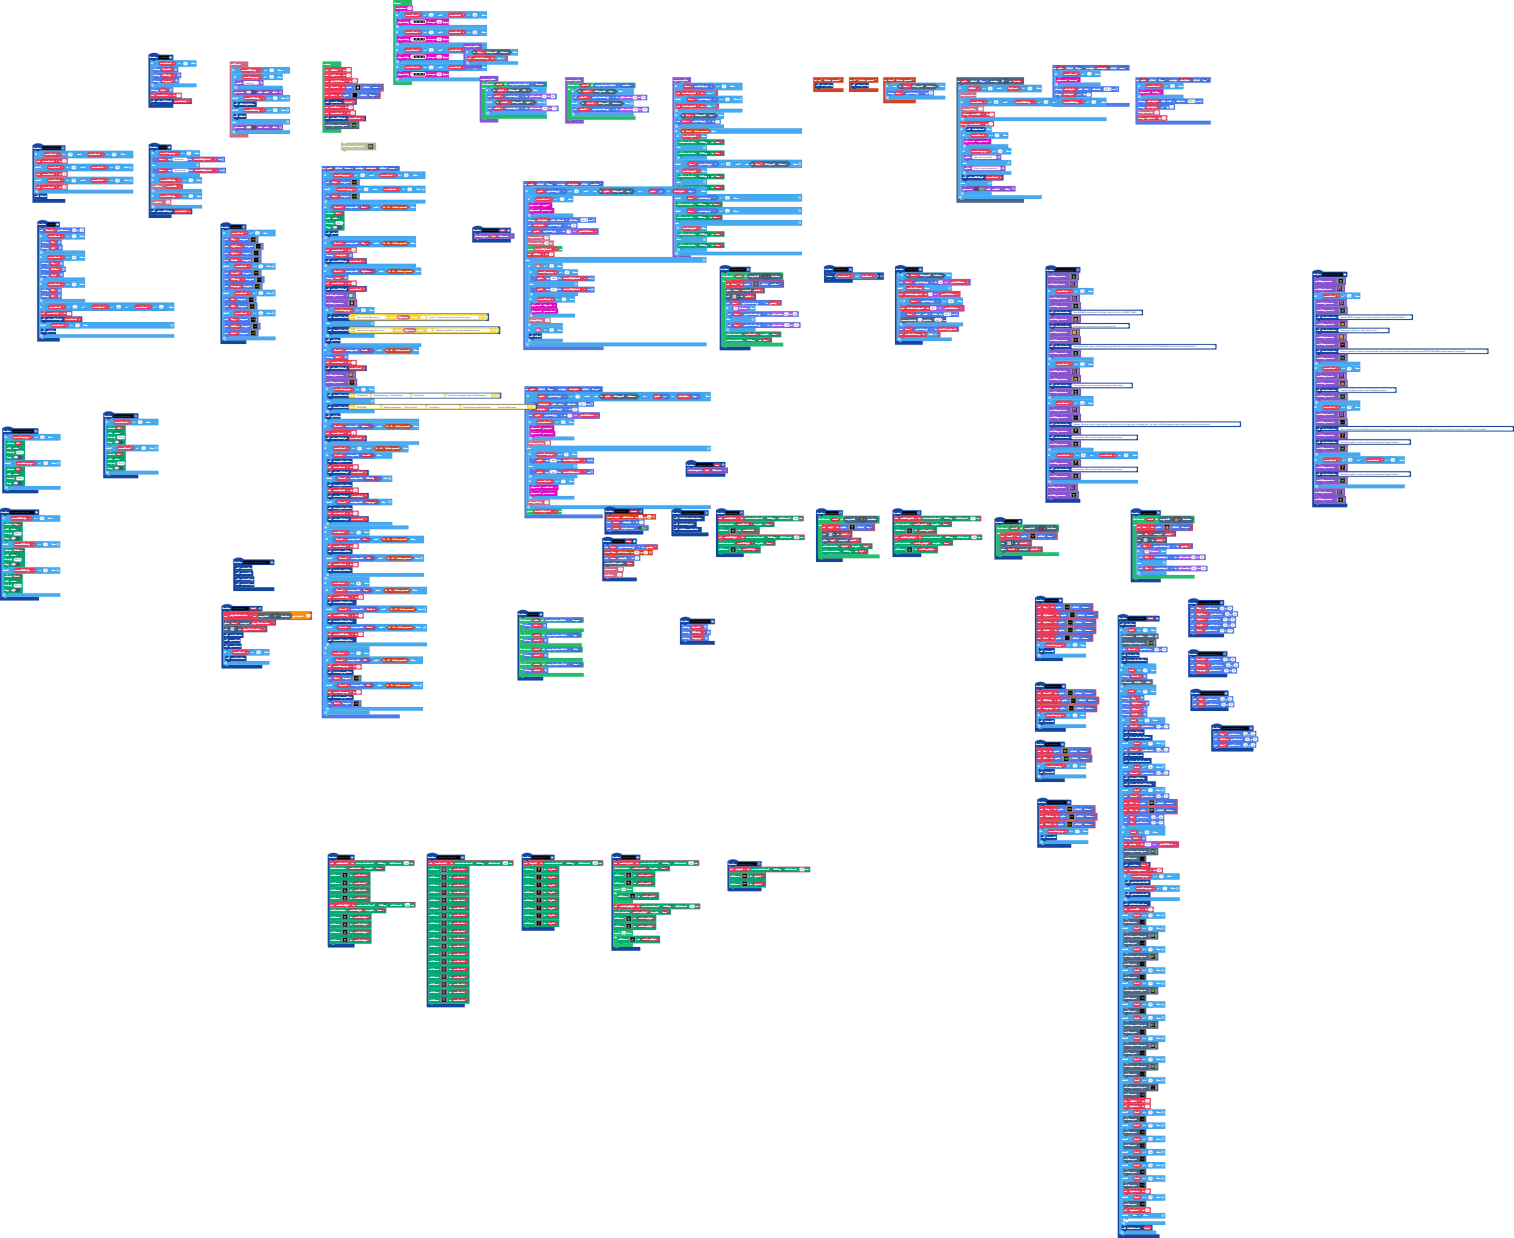
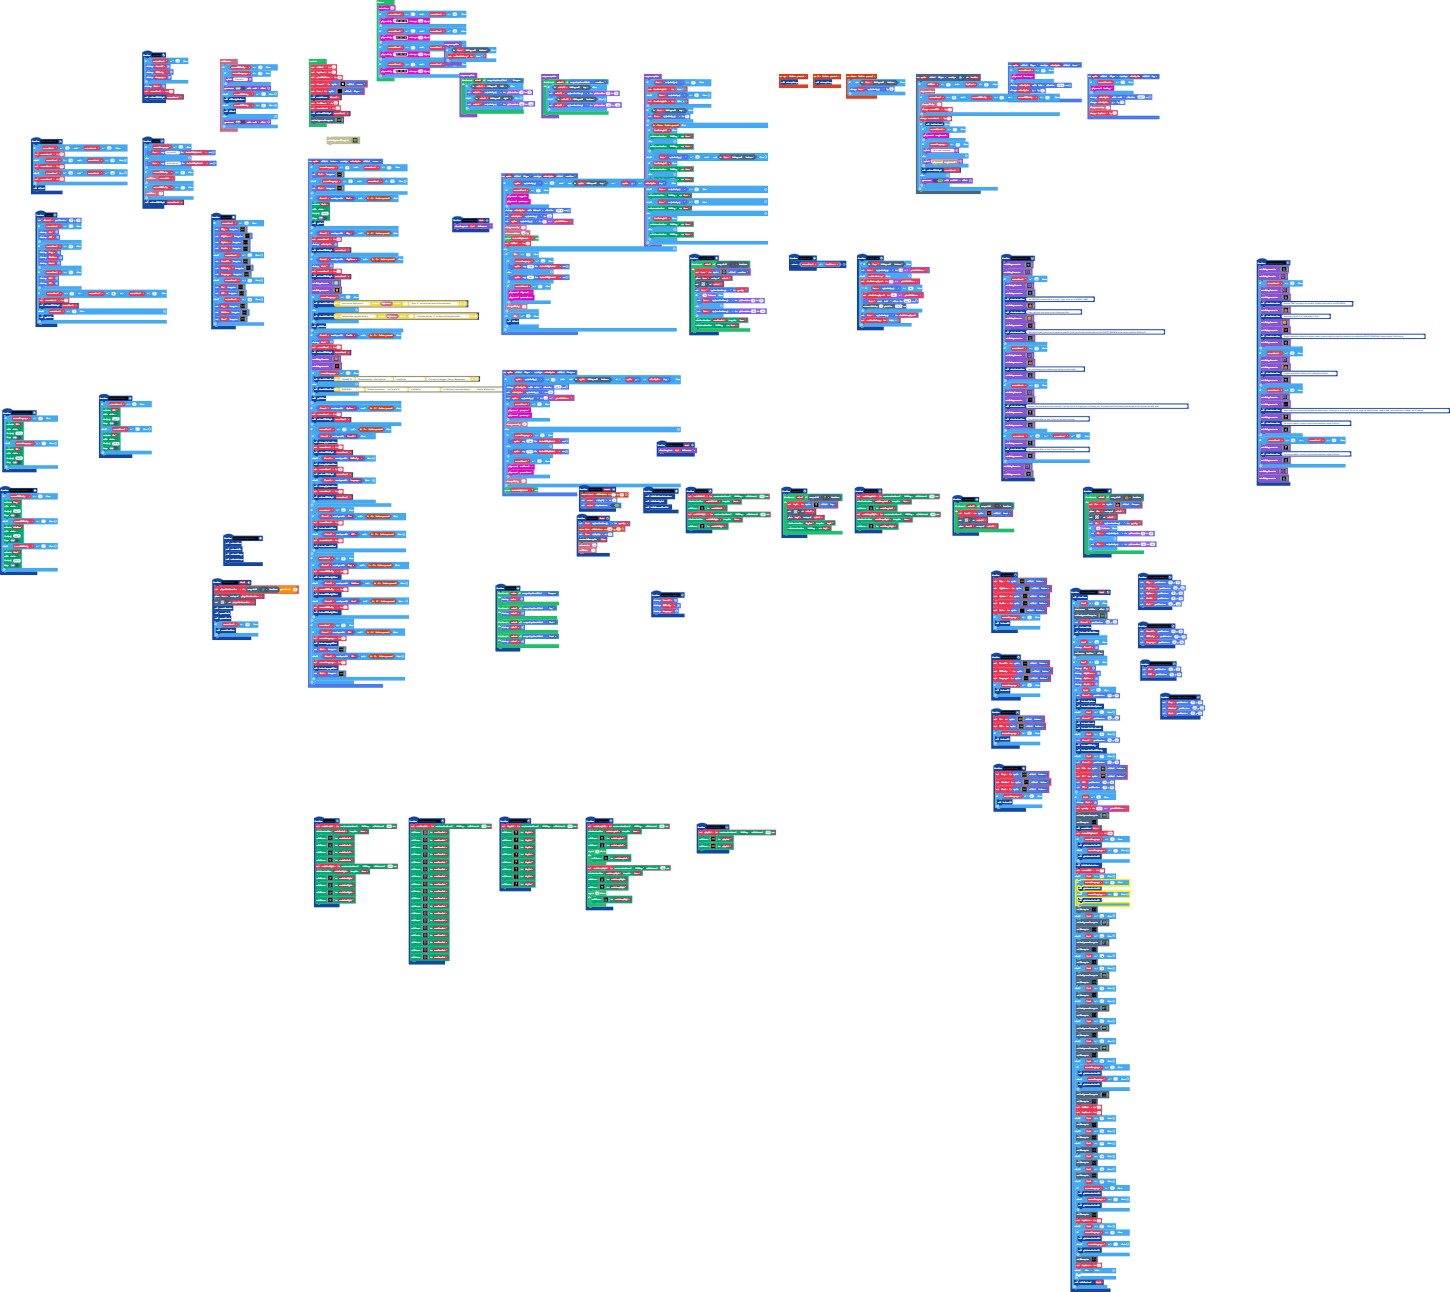
Update main.blocks, main.ts

diff --git a/main.ts b/main.ts
@@ -613,7 +613,7 @@ function giveIntroductionSK () {
             . 5 6 6 . . . . 5 6 6 . . . . . 
             `)
     }
-    if (currentLevel == 22) {
+    if (currentLevel == 20) {
         game.setDialogFrame(img`
             . a a a a a a a a a a a a a . . 
             a a 1 1 1 1 1 1 1 1 1 1 1 a a . 
@@ -680,7 +680,7 @@ function giveIntroductionSK () {
             . 5 6 6 . . . . 5 6 6 . . . . . 
             `)
     }
-    if (currentLevel == 26 || currentLevel == 17) {
+    if (currentLevel == 26 || currentLevel == 27) {
         game.setDialogCursor(img`
             . . . . . f f f f f f . . . . . 
             . . . . f 4 5 5 5 5 4 f . . . . 
@@ -1127,6 +1127,11 @@ function setLevelTileMap0 (level: number) {
             initializeAnimations()
             currentLife = 3
         } else if (level == 11) {
+            if (currentLanguage == 0) {
+                giveIntroductionEN()
+            } else if (currentLanguage == 1) {
+                giveIntroductionSK()
+            }
             tiles.setTilemap(tilemap`level2`)
         } else if (level == 12) {
             scene.setBackgroundImage(img`
@@ -1877,6 +1882,11 @@ function setLevelTileMap0 (level: number) {
                 `)
             tiles.setTilemap(tilemap`level19`)
         } else if (level == 20) {
+            if (currentLanguage == 0) {
+                giveIntroductionEN()
+            } else if (currentLanguage == 1) {
+                giveIntroductionSK()
+            }
             scene.setBackgroundImage(img`
                 ccccccccccccccbbbbbbbbbbbbbbbbbbccccccccccccccccccbbbbbcbbbbbbbbccbbcccccccccccccccbbbbbbbccccccbbbbbbbbbbcbbbbbbbbbbbbbbbbbbbbbbbbbbbbbbbbbbbbbbbbbbbbbbbbccccc
                 ccccccccccccccbbbbbbbbbbbbbbbbbbccccccccccccccccccbbbbbcbbbcbbbbbcbbcbbccccccccccccbbbbbbcccccccbbbbccbbbcbbbbbbbbbbbbbbbbbbbbcccbbbbbbbbbbbbbbbbbbbbbbbbbcccccc
@@ -2013,9 +2023,19 @@ function setLevelTileMap0 (level: number) {
         } else if (level == 25) {
             tiles.setTilemap(tilemap`level33`)
         } else if (level == 26) {
+            if (currentLanguage == 0) {
+                giveIntroductionEN()
+            } else if (currentLanguage == 1) {
+                giveIntroductionSK()
+            }
             tiles.setTilemap(tilemap`level34`)
             keyCount = 5
         } else if (level == 27) {
+            if (currentLanguage == 0) {
+                giveIntroductionEN()
+            } else if (currentLanguage == 1) {
+                giveIntroductionSK()
+            }
             tiles.setTilemap(tilemap`level35`)
             keyCount = 5
         } else if (false) {
@@ -2231,7 +2251,7 @@ function giveIntroductionEN () {
             . 5 6 6 . . . . 5 6 6 . . . . . 
             `)
     }
-    if (currentLevel == 22) {
+    if (currentLevel == 20) {
         game.setDialogFrame(img`
             . a a a a a a a a a a a a a . . 
             a a 1 1 1 1 1 1 1 1 1 1 1 a a . 
@@ -2298,7 +2318,7 @@ function giveIntroductionEN () {
             . 5 6 6 . . . . 5 6 6 . . . . . 
             `)
     }
-    if (currentLevel == 26 || currentLevel == 17) {
+    if (currentLevel == 26 || currentLevel == 27) {
         game.setDialogCursor(img`
             . . . . . f f f f f f . . . . . 
             . . . . f 4 5 5 5 5 4 f . . . . 
